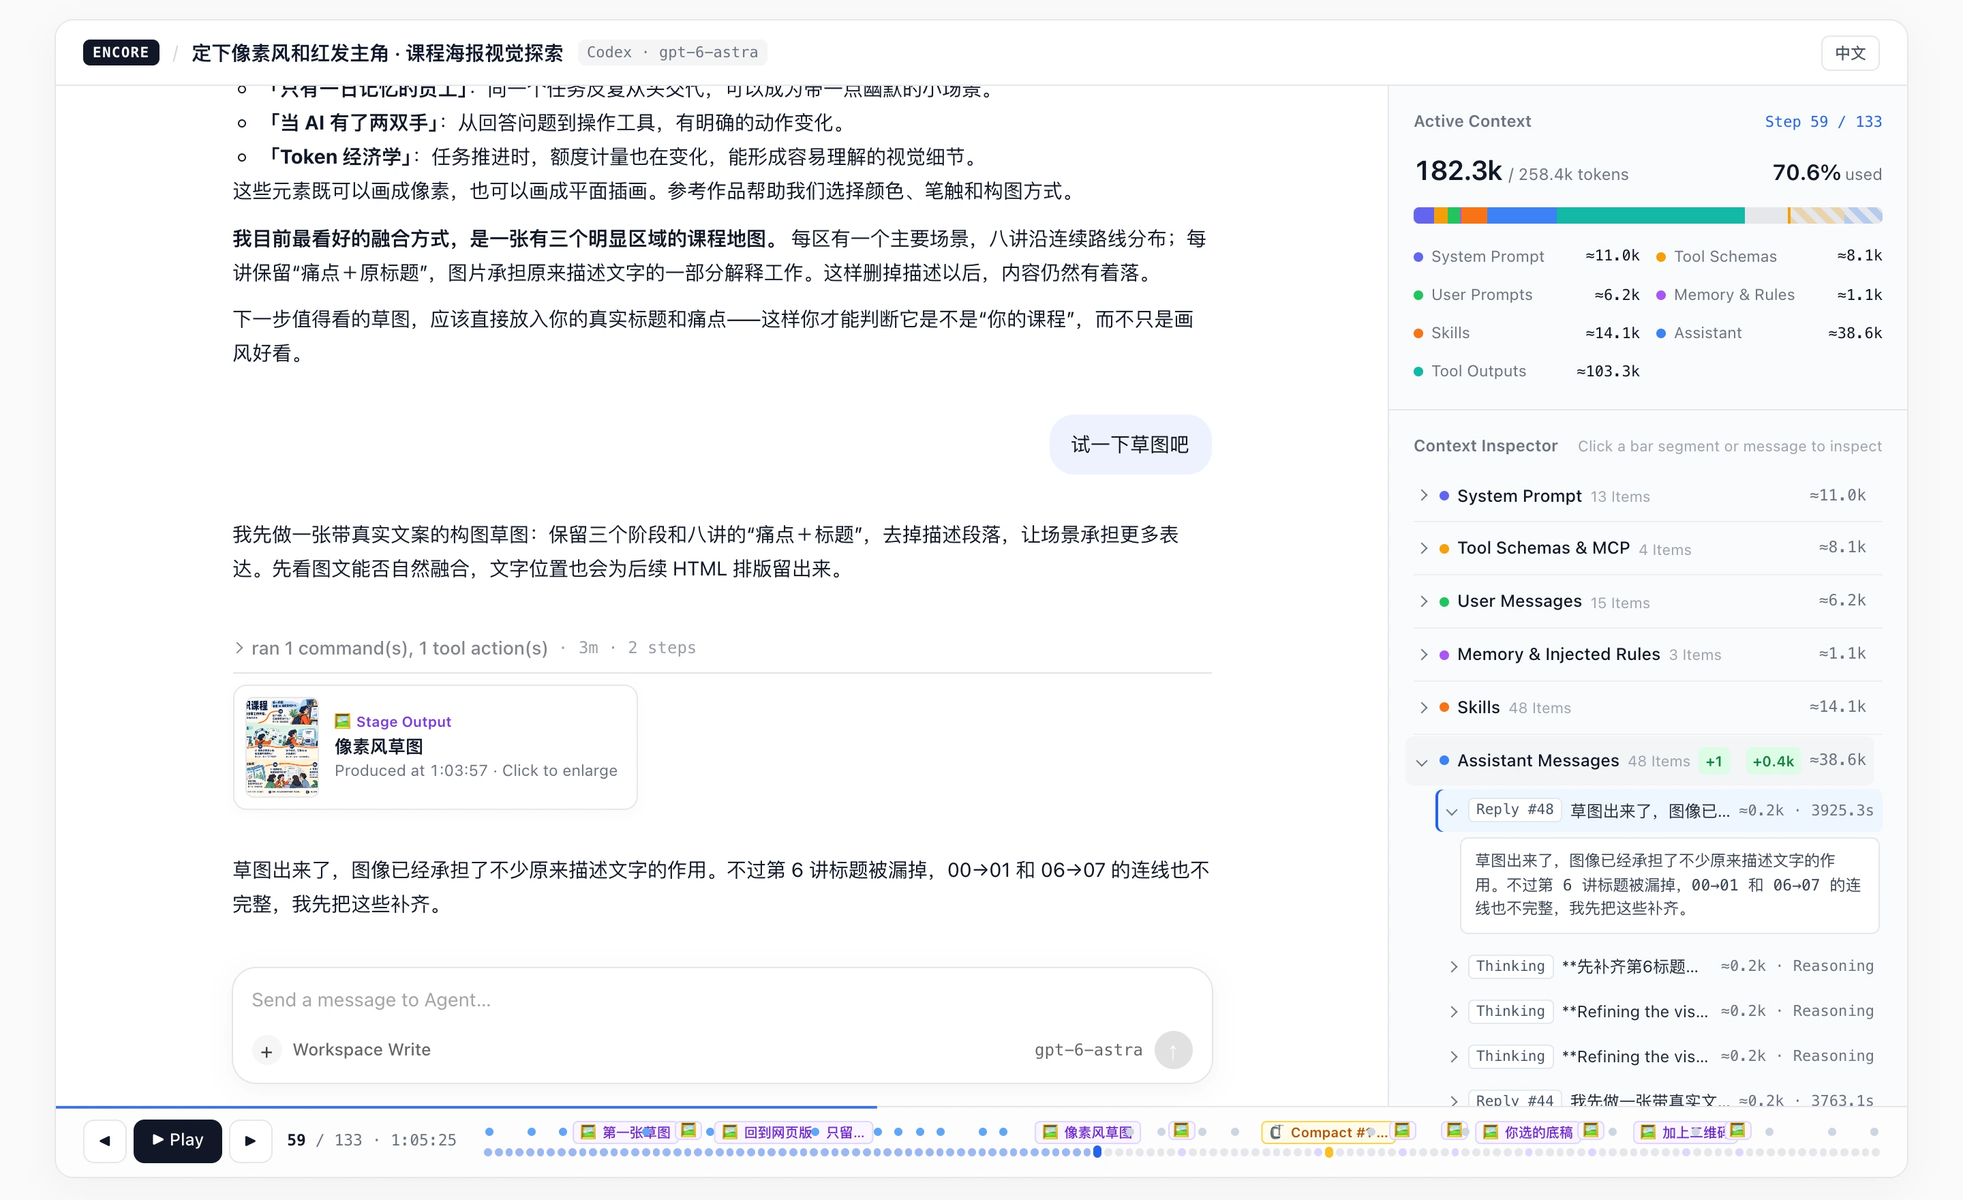
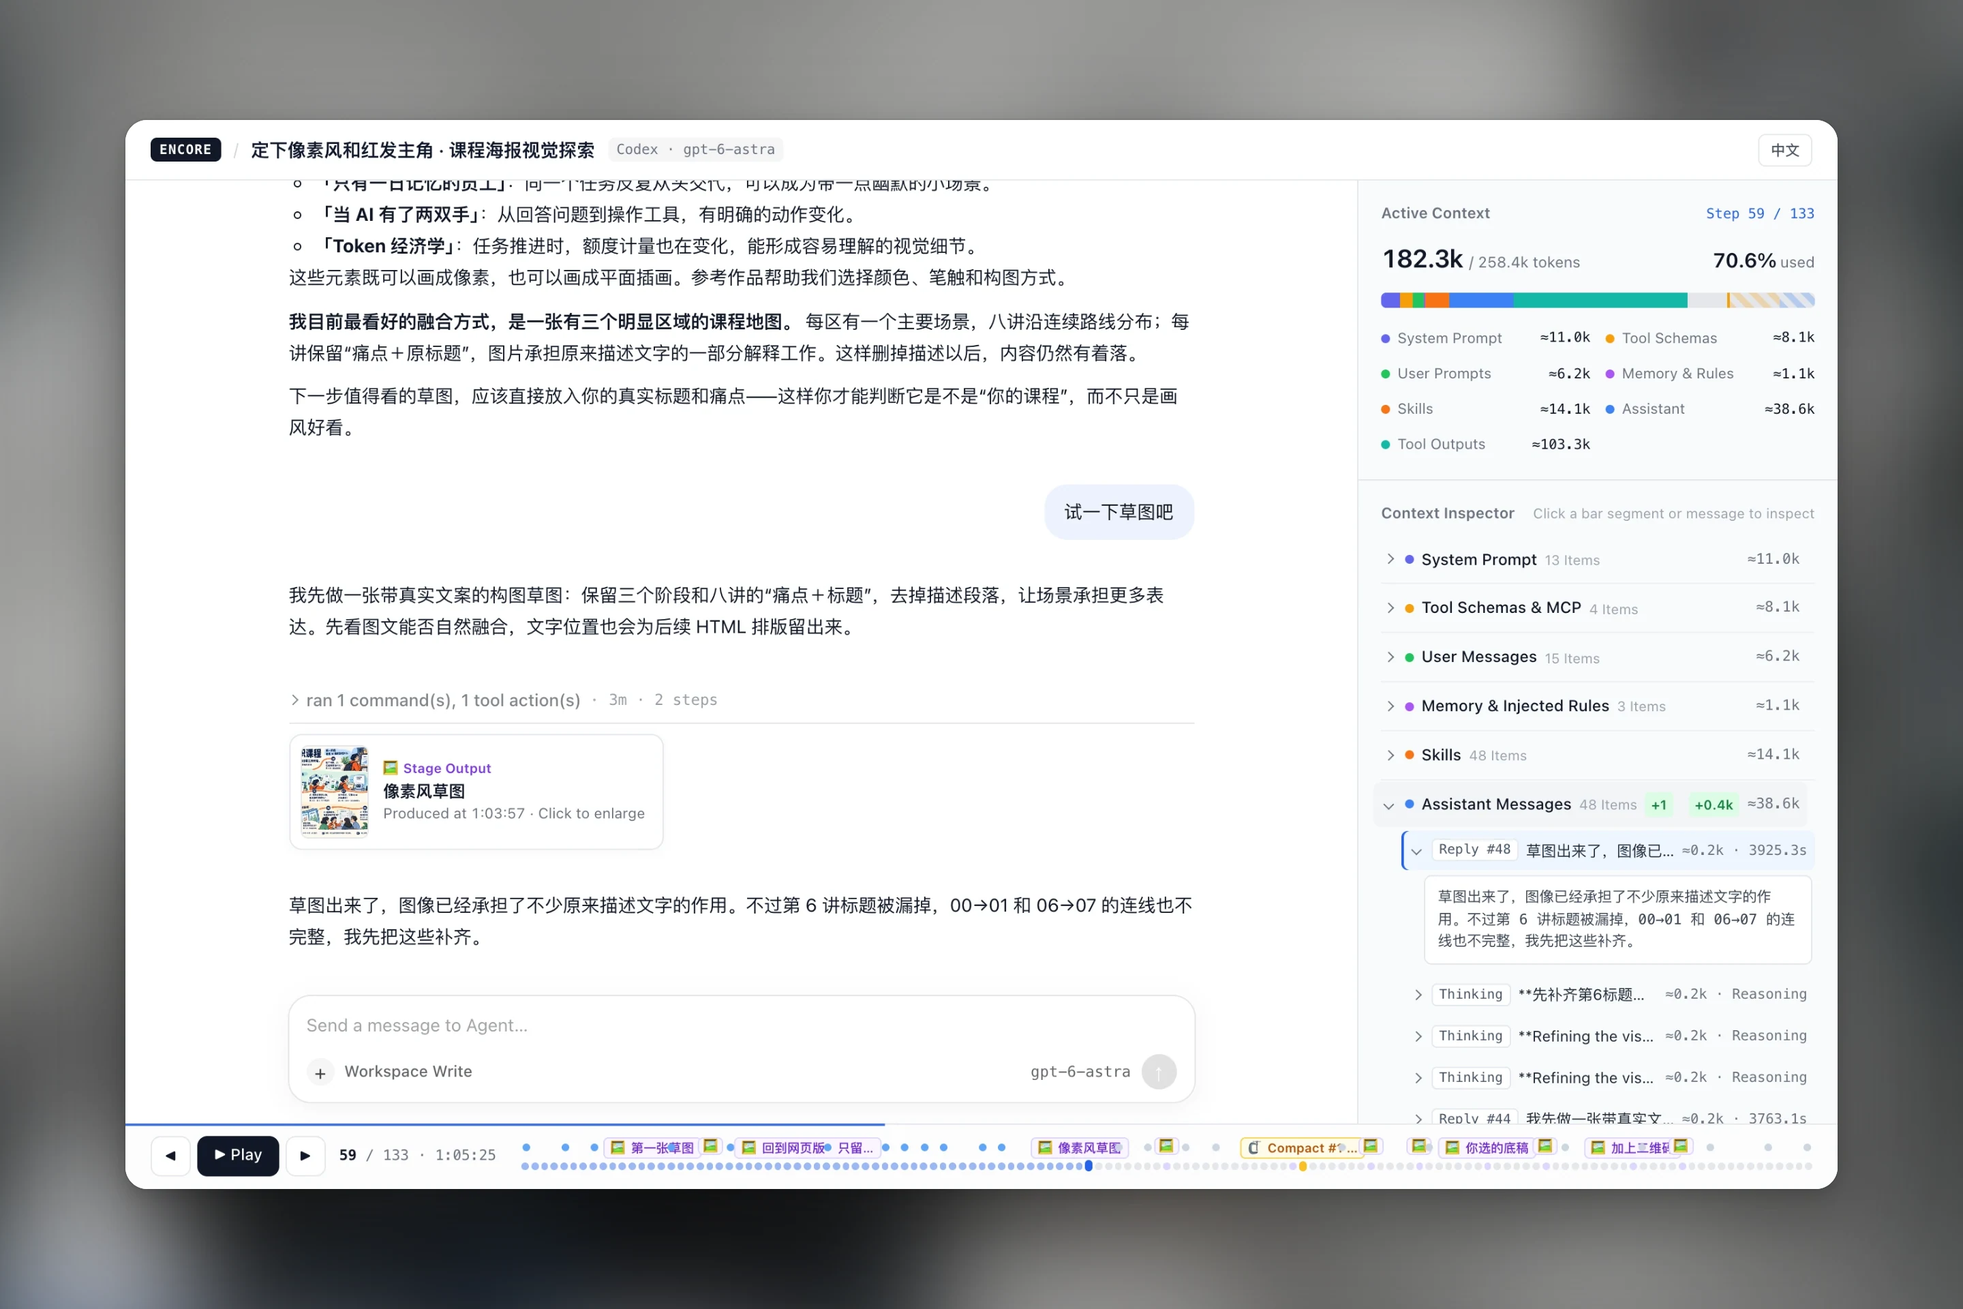
docs(readme): polish bilingual docs and refresh preview screenshots (#14)

diff --git a/README.md b/README.md
@@ -3,7 +3,7 @@
 </p>
 
 <p align="center">
-  <a href="https://encore.niracler.com"><strong>Live Demos (encore.niracler.com) ↗</strong></a> ·
+  <a href="https://encore.niracler.com/?lang=en"><strong>Live Demos (encore.niracler.com) ↗</strong></a> ·
   <a href="https://www.npmjs.com/package/@niracler/encore"><strong>npm ↗</strong></a> ·
   <a href="./README.md"><strong>English</strong></a> ·
   <a href="./README.zh-CN.md">简体中文</a>
@@ -16,59 +16,51 @@
   <a href="./LICENSE"><img src="https://img.shields.io/badge/license-MIT-2563eb?style=flat-square" alt="MIT License"></a>
 </p>
 
-**Encore** is like [`asciinema`](https://asciinema.org) for AI agent sessions. It compiles raw transcripts from **Codex**, **Claude Code**, **Claude.ai**, and **WorkBuddy** into a self-contained web replay—complete with a live context-window inspector, tool-call traces, sub-agent handoffs, and visual milestones.
+**Encore** is like [`asciinema`](https://asciinema.org) for AI agent sessions. It turns raw transcripts from **Codex**, **Claude Code**, **Claude.ai**, and **WorkBuddy** into a self-contained web replay, entirely on your machine. Readers can step through prompts, tool calls, sub-agent work, and screenshots while watching the context window grow and compact in real time.
 
-![Encore Preview](./docs/preview-en.webp)
-
-- **Conversation & artifacts (left)**: Streaming replies, collapsible tool batches, sub-agent reports, inline `.md` drafts, and extracted `.webp` frames.
-- **Live Context X-Ray (right)**: Real-time `200k` / `1.0M` token gauge split across 7 context buckets, auto-compaction markers, and click-to-inspect raw payloads at any step.
-- **Milestone timeline (bottom)**: Step-by-step scrubber pinned with visual keyframes (`🖼`), written documents (`📄`), context compactions (`🗜`), and user prompts (`💬`).
+![Encore preview showing the replay player and live context-window inspector](./docs/preview-en.webp)
 
 ---
 
 ## Live Demos
 
-The homepage features four replays. The first two follow the making of *70 Years of AI*, opening on the first cut. The other two show how Codex and WorkBuddy handled the same buyer research brief. Switch between English and Chinese for the interface and case introductions. Conversations stay in their original language.
+The [showcase](https://encore.niracler.com/?lang=en) opens on four featured replays: two following the making of *70 Years of AI* (starting on the first cut), and two comparing how Codex and WorkBuddy handled the same buyer-research brief. The interface and case notes switch between English and Chinese, while transcripts stay in their original language.
 
 | Demo | Agent | Highlights |
 | :--- | :--- | :--- |
-| [70 Years of AI · First cut](https://encore.niracler.com/?lang=en) | **Claude.ai** | Seven sub-agents help research and script a 4-minute, 10-second preview |
-| [70 Years of AI · Final cut](https://encore.niracler.com/?demo=ai-tree-1015&lang=en) | **Claude.ai** | Viewer feedback shapes the photos and glossary in the landscape and portrait releases |
-| [Overseas lighting buyers](https://encore.niracler.com/?demo=lesson-00-buyers-codex&lang=en) | **Codex** | Three sub-agents research three markets and identify 26 prospective buyers |
-| [Overseas lighting buyers](https://encore.niracler.com/?demo=lesson-00-buyers-workbuddy&lang=en) | **WorkBuddy** | Three tasks hit a quota limit and are reassigned before delivery of a 32-company shortlist |
+| [70 Years of AI · First cut](https://encore.niracler.com/?lang=en) | **Claude.ai** | Dispatches 7 sub-agents to fact-check history and script a 4-minute, 10-second preview |
+| [70 Years of AI · Final cut](https://encore.niracler.com/?demo=ai-tree-1015&lang=en) | **Claude.ai** | Incorporates viewer feedback on photos and glossary into landscape and portrait cuts |
+| [Overseas lighting buyers](https://encore.niracler.com/?demo=lesson-00-buyers-codex&lang=en) | **Codex** | Sends 3 sub-agents across Germany, the UK, and Australia to compile 26 prospective buyers |
+| [Overseas lighting buyers](https://encore.niracler.com/?demo=lesson-00-buyers-workbuddy&lang=en) | **WorkBuddy** | Reassigns 3 quota-limited tasks to deliver a 32-company shortlist |
 
-Other replays are available by direct link.
+Additional replays are available by direct link:
 
 | Demo | Agent | Highlights |
 | :--- | :--- | :--- |
-| [Poster Redesign](https://encore.niracler.com/?demo=poster-redesign) | **Codex** | Visual poster iteration across 7 `.webp` frames plus a live auto-compaction boundary |
-| [Site Integration](https://encore.niracler.com/?demo=work-stages-site) | **Claude Code** | 4 sub-agents, 5 visual frames, and a live debugging fix for a broken page script |
-| [7-Stage Diagram Redesign](https://encore.niracler.com/?demo=work-stages-design) | **Claude.ai** | Web export (`conversations.json`) exploring 5 layout directions across 9 drafts |
-| [Open-Source Research: x-cmd](https://encore.niracler.com/?demo=xcmd-research) | **WorkBuddy** | 4 parallel sub-agents researching a public project from scratch |
+| [Poster redesign](https://encore.niracler.com/?demo=poster-redesign&lang=en) | **Codex** | Iterates on a course poster across 7 `.webp` frames, including an automatic context compaction |
+| [Site integration](https://encore.niracler.com/?demo=work-stages-site&lang=en) | **Claude Code** | Coordinates 4 sub-agents across 5 frames and fixes a page rendering its script as plain text |
+| [7-stage diagram redesign](https://encore.niracler.com/?demo=work-stages-design&lang=en) | **Claude.ai** | Explores 6 layout directions across 9 drafts from a `conversations.json` web export |
+| [Open-source research: x-cmd](https://encore.niracler.com/?demo=xcmd-research&lang=en) | **WorkBuddy** | Runs 4 parallel sub-agents to research a public project from scratch |
 
 ---
 
 ## Quick Start
 
-Requires **Node.js >= 20.10**. No global install needed—these commands run the `latest` release from npm:
+Requires **Node.js >= 20.10**. No global install needed:
 
 ```bash
-# 1. Interactive picker — scans ~/.codex/sessions, ~/.claude/projects & ~/.workbuddy/projects
-#    Use ↑ / ↓ to select and ← / → to flip pages
+# Interactive picker — scans ~/.codex/sessions, ~/.claude/projects, and ~/.workbuddy/projects
+# Use ↑ / ↓ to select and ← / → to flip pages
 npx @niracler/encore@latest
 
-# 2. Export a specific log — auto-detects .jsonl, .jsonl.zst, and Claude.ai conversations.json
+# Export a specific log — auto-detects .jsonl, .jsonl.zst, and Claude.ai conversations.json
 npx @niracler/encore@latest /path/to/rollout.jsonl -o ./replays/my-session
 
-# 3. After editing ./replays/my-session/session.json, re-run on the folder to sync <title>
-#    and re-check for sensitive strings:
-npx @niracler/encore@latest ./replays/my-session
-
-# 4. Preview any exported replay folder locally on http://localhost:4180
+# Preview an existing replay locally (default: http://localhost:4180)
 npx @niracler/encore@latest play ./replays/my-session
 ```
 
-By default, Encore creates a self-contained folder under `./replays/<session-slug>/` containing `session.json`, deduplicated `*.webp` frames, `index.html`, `encore-player.js`, and `encore-player.css`.
+Without `-o`, Encore writes a self-contained folder at `./replays/<session-slug>/` containing `session.json`, deduplicated `*.webp` frames, `index.html`, `encore-player.js`, and `encore-player.css`.
 
 ---
 
@@ -78,38 +70,31 @@ By default, Encore creates a self-contained folder under `./replays/<session-slu
   <picture>
     <source media="(prefers-color-scheme: dark)" srcset="./docs/architecture-en-dark.webp">
     <source media="(prefers-color-scheme: light)" srcset="./docs/architecture-en-light.webp">
-    <img src="./docs/architecture-en-light.webp" alt="Encore architecture pipeline: from raw agent logs to a portable, curated replay" width="100%">
+    <img src="./docs/architecture-en-light.webp" alt="Encore pipeline: from raw agent logs to a self-contained interactive replay" width="100%">
   </picture>
 </p>
 
-- **Offline compiler, zero backend**: Logs are parsed locally in Node.js. Nothing is uploaded, proxied, or sent to an external server.
-- **Decoupled data and player**: `session.json` and extracted `.webp` frames stay separate from the zero-dependency player bundle, so you can edit titles, descriptions, or frames directly without rebuilding code.
-- **Explicit boundary for external deliverables**: Media embedded in raw logs (Base64 screenshots, inline `.md` writes, context records, sub-agent reports) is extracted automatically. External workspace files created on disk (`.mp3` voiceovers, `.mp4` videos, posters, PDFs) are never auto-scraped by the CLI—copy and mount only what you choose to publish.
+- **Local-only processing**: Parsing, WebP conversion, and baseline redaction all run locally in Node.js. Nothing is uploaded.
+- **Decoupled data and player**: `session.json` and extracted `.webp` frames live next to the zero-dependency player bundle, so edits to text or frames take effect on reload with no rebuild.
+- **Explicit media boundary**: Encore automatically extracts only Base64 images and inline `.md` writes embedded in the transcript. External workspace files (`.mp3`, `.mp4`, posters, PDFs) are never scraped automatically—copy in and link only what you intend to publish.
 
 ---
 
-## Curating a Replay (Director's Cut)
+## Polishing Before Publishing (Optional)
 
-Raw agent runs often include dozens of repetitive tweak screenshots, a long opening prompt instead of a readable title, and project-specific names that regex redaction cannot recognize.
-
-Copy or link [`skills/encore/SKILL.md`](./skills/encore/SKILL.md) into `.agents/skills/encore` (or `~/.codex/skills/encore` / `~/.claude/skills/encore`), then ask your agent:
+Raw exports often include noisy intermediate screenshots, an opening prompt used as the title, and internal names that regex cannot catch. Copy [`skills/encore/SKILL.md`](./skills/encore/SKILL.md) into `.agents/skills/encore` (or `~/.codex/skills/encore` / `~/.claude/skills/encore`), then ask your agent to prune and label frames, write a clear title and intro, scrub project-specific details, and trim off-topic turns:
 
 ```text
-Use the encore skill to export my latest session and curate session.json for publishing.
+Use the encore skill to export my latest session and polish session.json for publishing.
 ```
 
-The skill guides the agent through four focused passes:
-
-- **Prune & label `.webp` frames**: Inspects extracted images, removes broken or duplicate tweaks, and writes concise milestone labels.
-- **Write a clear title & intro**: Sets top-level `title` and `description` so readers understand the goal and turning point before pressing Play.
-- **Semantic privacy cleanup**: Spots internal codenames, people's names, or private URLs that regex rules miss and replaces them with `(Internal context redacted)`.
-- **Trim off-topic tails**: Slices out unrelated setup or follow-up chatter with `--from` / `--to` or direct edits to `items[]`.
+After editing `session.json` by hand, re-run `npx @niracler/encore@latest ./replays/my-session` to sync `<title>`, drop references to deleted frames, and re-run leak checks. Re-running on an existing replay folder preserves your manual edits and any media files you added.
 
 ---
 
-## Embedding in Blogs & Docs
+## Embedding on Any Site
 
-Upload the generated folder to any static host (GitHub Pages, Cloudflare Pages, Vercel, S3) or drop three lines into an existing HTML page:
+Deploy the generated folder to GitHub Pages, Cloudflare Pages, Vercel, or any static host—or embed the player in an existing HTML page with three lines:
 
 ```html
 <link rel="stylesheet" href="./encore-player.css">
@@ -117,7 +102,7 @@ Upload the generated folder to any static host (GitHub Pages, Cloudflare Pages, 
 <script src="./encore-player.js" defer></script>
 ```
 
-Omit `data-lang` to auto-detect the UI language from `session.json`.
+Omit `data-lang` to follow the language set in `session.json`.
 
 <details>
 <summary><strong>CLI Reference &amp; <code>session.json</code> Schema</strong></summary>
@@ -141,7 +126,7 @@ Options:
       --image-width <px>   Max width for extracted WebP frames (default: 960)
       --clip <chars>       Max chars per tool input/output (default: 1500/2000)
       --conversation <id>  Conversation UUID for multi-chat Claude.ai exports
-      --include-memory     Include full cross-session MEMORY_SUMMARY / User CLAUDE.md text
+      --include-memory     Include full cross-session MEMORY_SUMMARY and user-level CLAUDE.md text (omitted by default)
       --list               List recent local sessions without interactive prompt
       --serve              Start local HTTP preview server after building
       --no-serve           Do not start local HTTP preview server
@@ -177,32 +162,33 @@ Formal JSON Schema: [`schema/session.schema.json`](./schema/session.schema.json)
 
 </details>
 
----
+<details>
+<summary><strong>FAQ</strong></summary>
 
-## FAQ
+**Does Encore upload my logs? How does redaction work?**
+No. Everything runs locally. During export, Encore masks common API keys, private keys, JWTs, database credentials, emails, private IPs, and home directory paths (`~`). Cross-session `MEMORY_SUMMARY` and user-level `CLAUDE.md` bodies are omitted by default, and suspicious internal domains or URL secret parameters trigger warnings. Regex cannot catch project codenames, colleagues' names, business metrics, or sensitive content inside screenshots, so review `session.json` and remaining `.webp` frames before publishing.
 
-**Does Encore upload my logs? How does privacy redaction work?**
-No. Everything runs locally on your machine. During export, Encore masks API keys, private keys, JWTs, database credentials, emails, private IPs, and home directory paths (`~`), folds cross-session `MEMORY_SUMMARY` and user-level `CLAUDE.md` by default, and warns about suspicious internal domains or query tokens. Regex cannot catch internal project codenames, colleague names, business numbers, or sensitive content visible inside screenshots—always review `session.json` and extracted `.webp` frames before publishing publicly.
-
-**Where does Encore create files, and what breaks if I delete the original log or workspace?**
-Without `-o`, Encore writes a self-contained folder at `./replays/<session-slug>/` in your current working directory. Everything inside the raw log (turns, context records, inline `.md` writes, and extracted `.webp` frames) is copied into that folder, so deleting the original `.jsonl` log afterwards will not break the replay. However, external workspace files that were never embedded in the log (such as `.mp3` voiceovers, `.mp4` videos, or PDFs generated by shell commands) are not auto-copied; if you delete them before copying them into the replay folder, they will be missing.
+**Will deleting the original log or workspace files break a replay?**
+Not for anything embedded in the log. Turns, context records, inline `.md` writes, and extracted `.webp` frames are all copied into `./replays/<session-slug>/`, so deleting the original `.jsonl` file will not affect playback. External files created only on disk (such as `.mp3` voiceovers, `.mp4` videos, posters, or PDFs) are not copied automatically—copy them into the replay folder and link them with relative paths in `session.json` before deleting the originals.
 
 **Why doesn't double-clicking `index.html` (`file://`) work?**
-The player loads `./session.json` with `fetch()`, which browsers block under `file://` due to CORS restrictions. Preview locally with `npx @niracler/encore@latest play ./replays/<slug>`, or host the folder on any static web server.
+The player loads `./session.json` with `fetch()`, which browsers block on `file://` URLs for security reasons. Preview locally with `npx @niracler/encore@latest play ./replays/<session-slug>`, or serve the folder from any static host.
 
 **Why didn't some screenshots, audio clips, or final videos show up automatically?**
-Encore only extracts images that were actually passed through the model session as Base64 payloads. Files written only to disk via shell tools—as well as Claude.ai's `conversations.json` web export, which omits uploaded images and rendered artifacts—do not contain binary media in the transcript. The player supports `.mp3` (`item.audio`), `.mp4` + cover, and poster/link cards natively; copy those files into the replay folder and reference them in `session.json` during curation.
+Encore can only extract images that appear in the transcript as Base64 payloads. Files written straight to disk by shell commands—and media omitted from Claude.ai's `conversations.json` export, such as uploaded images and rendered artifacts—are not stored in the log. Because the player supports step audio (`item.audio`), `.mp4` video, and deliverable cards, you can copy those files into the replay folder and reference them in `session.json`.
 
-**Are the Context Window token counts exact billing figures?**
-When a log records real token usage (including `preTokens` and `postTokens` around compactions), Encore displays those numbers directly. When per-step counts or per-bucket breakdowns are absent from the raw log, Encore estimates proportions from text length so you can inspect context structure and growth trends—not replace provider billing dashboards.
+**Are the context-window token counts exact billing figures?**
+No—they are meant to show context structure and growth, not replace provider billing dashboards. When a log records actual token counts (including `preTokens` and `postTokens` around compactions), Encore displays them directly. When per-step totals or the 7-bucket breakdown are missing, Encore estimates them from text length.
 
-**What if a raw session is too long or full of noisy screenshots?**
-Use `--from` and `--to` (ISO timestamps) to slice a focused time window, or edit `frames[]` and `items[]` directly in `session.json` and run `npx @niracler/encore@latest ./replays/<slug>` to re-sync `<title>` and clean up unreferenced frame links. Re-syncing a replay folder preserves your manual edits and mounted media (whereas re-importing from the raw `.jsonl` into the same directory refreshes generated `.webp` files).
+**What if a raw replay is too long or has too many screenshots?**
+Pass `--from` and `--to` (ISO timestamps) to export a specific time window. You can also edit `frames[]`, `items[]`, `title`, and `description` directly in `session.json`, then run `npx @niracler/encore@latest ./replays/<session-slug>` to sync `<title>` and drop references to deleted frames. Re-running on an existing replay folder preserves your manual edits and added media files, whereas re-importing from the raw `.jsonl` into the same folder regenerates the `.webp` files.
+
+</details>
 
 ---
 
 ## Contributing & License
 
-Architecture notes and development commands live in [`AGENTS.md`](./AGENTS.md). Run `pnpm test` to verify adapters, privacy redaction, and player bundle sync, or open an issue to request support for another AI agent log format.
+Architecture notes and development commands live in [`AGENTS.md`](./AGENTS.md). Run `pnpm test` before opening a pull request to verify adapters, redaction rules, and player bundle sync. To request support for another agent log format, open an issue.
 
 [MIT](./LICENSE)
